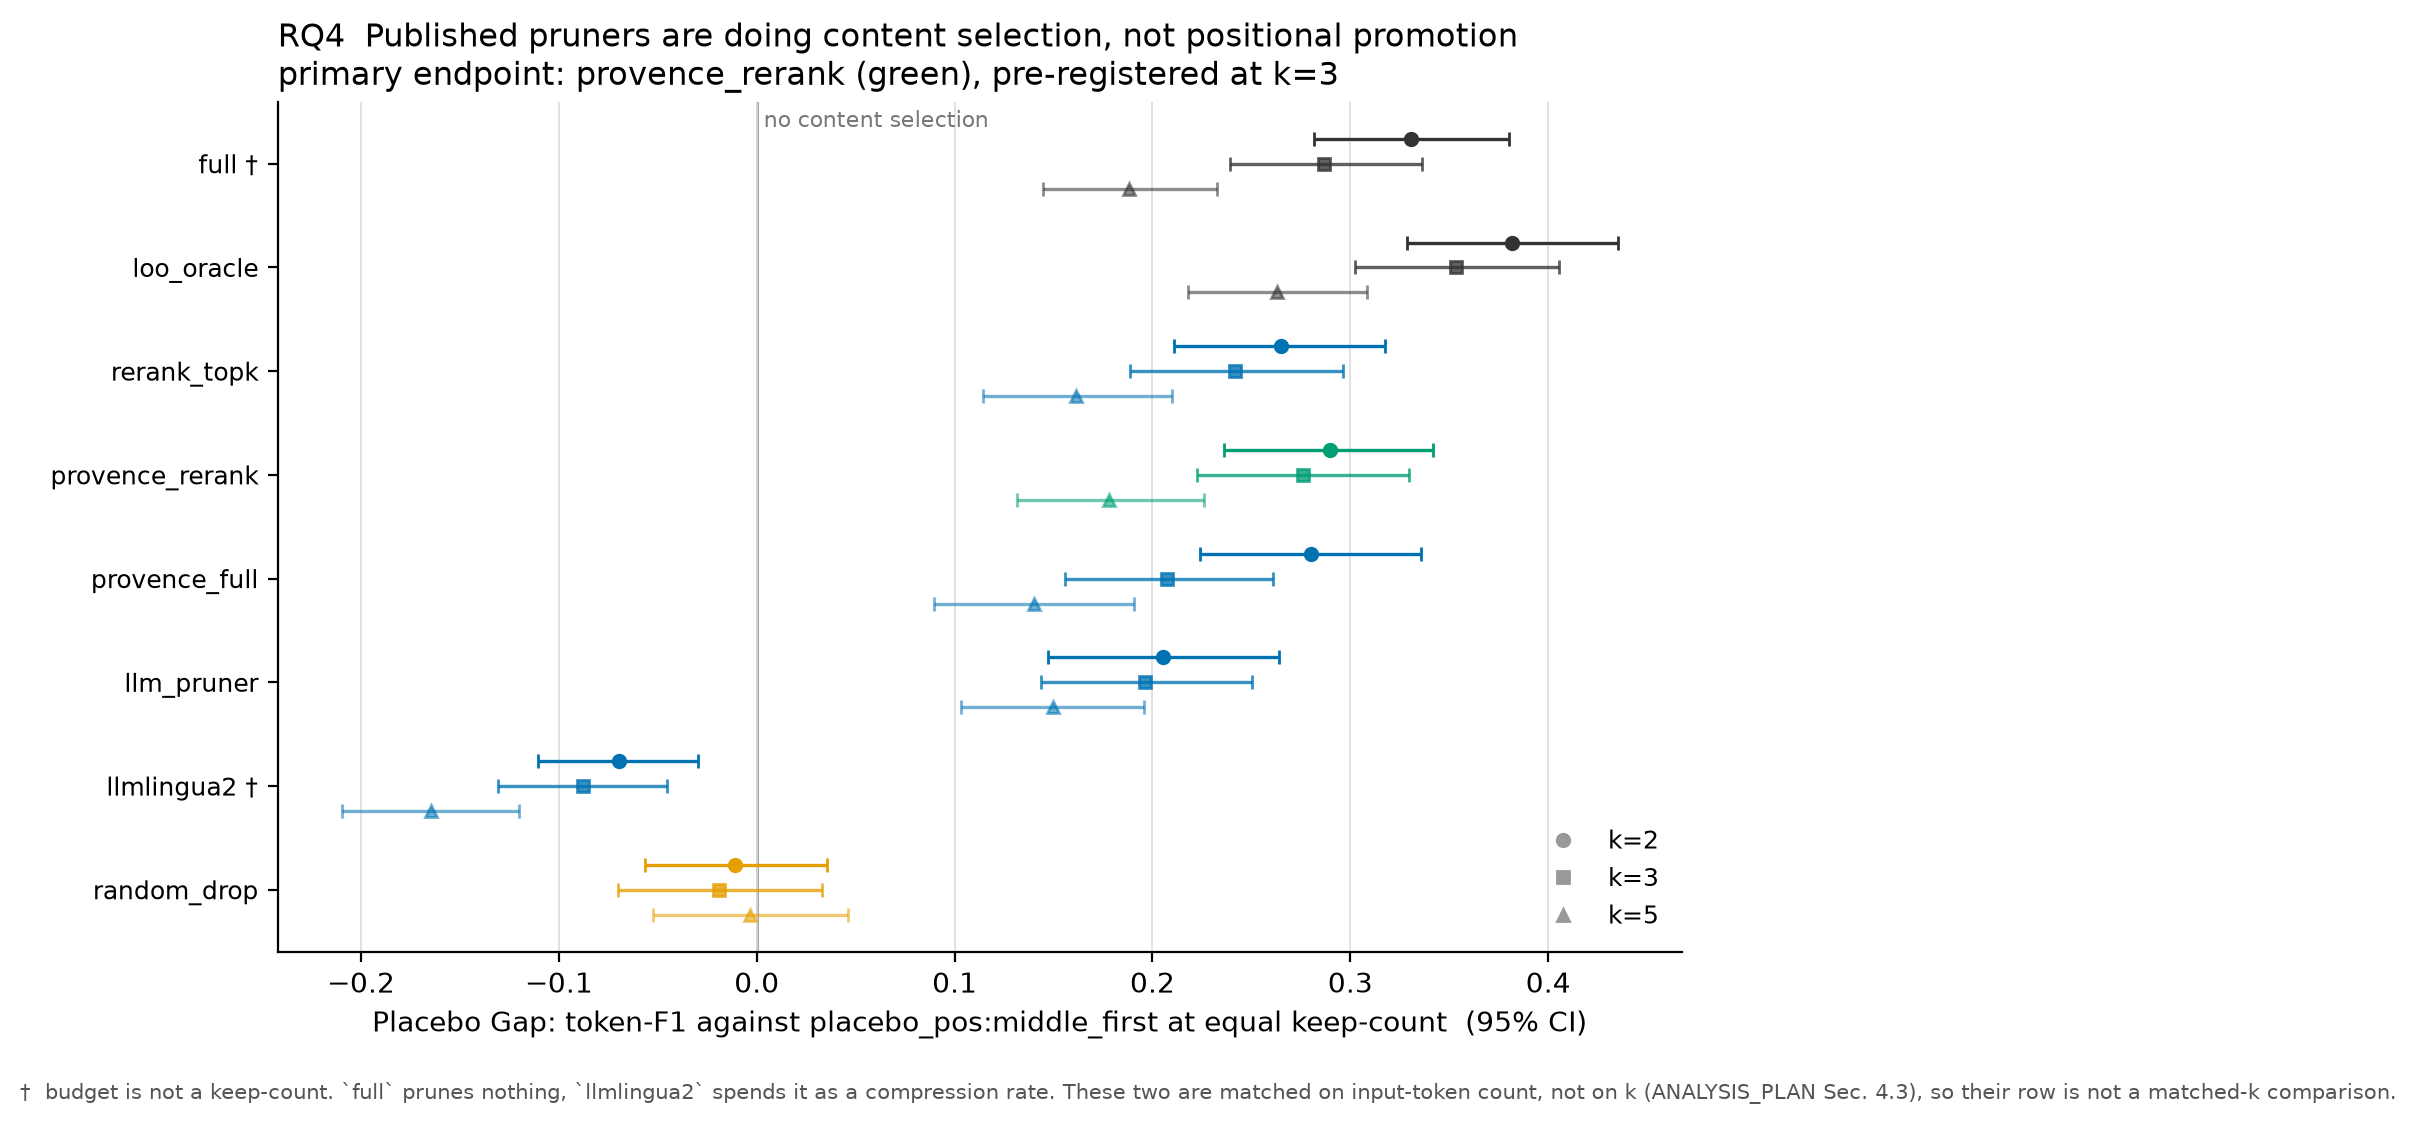
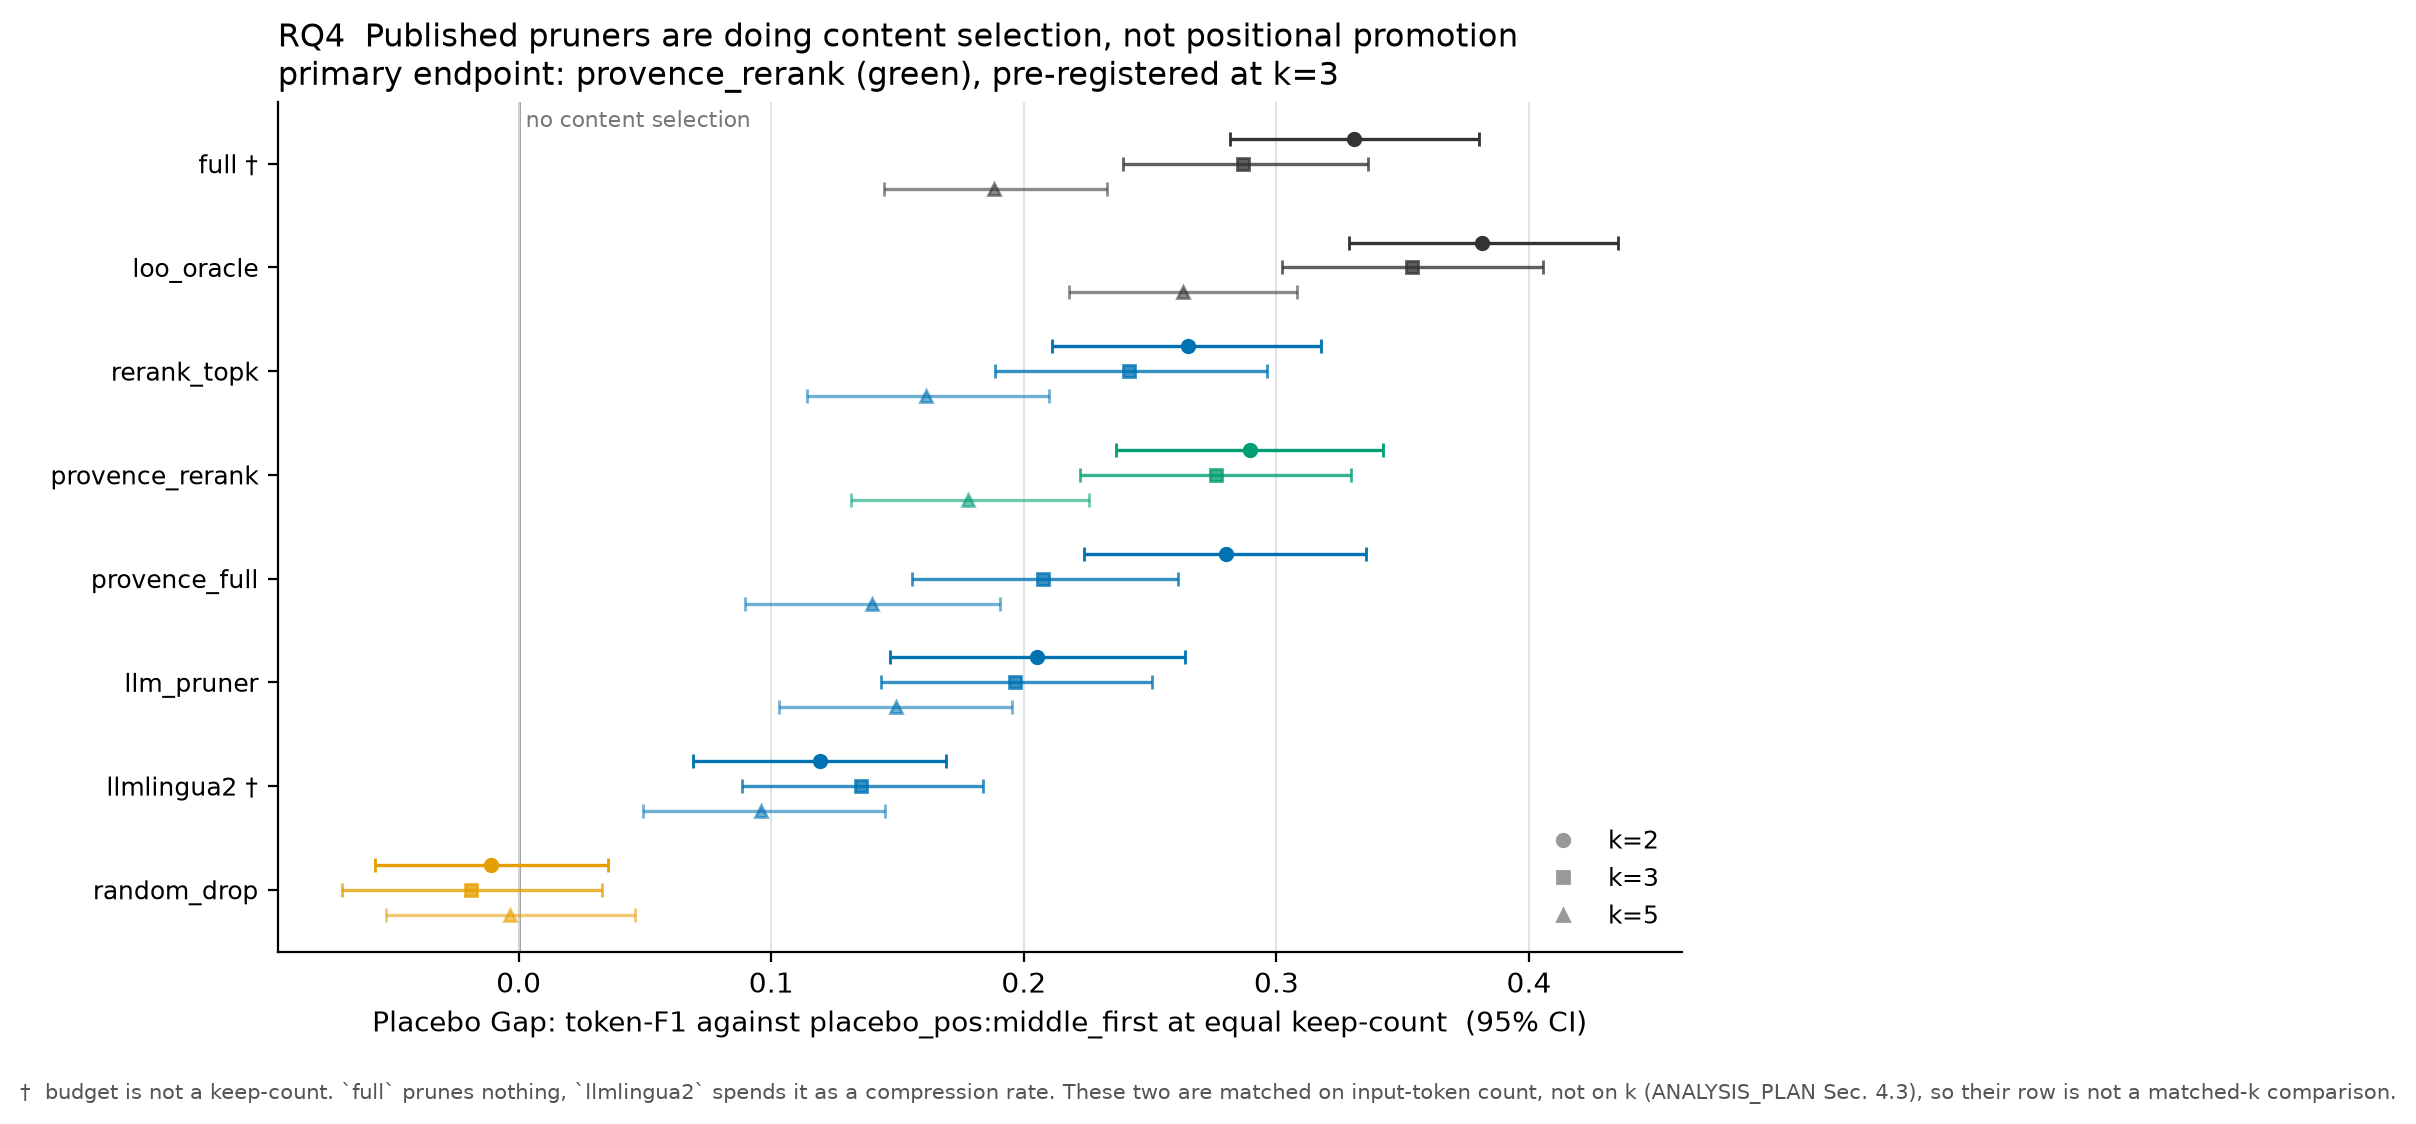
Correct the llmlingua2 results in the write-up and README
Regenerated the arm (4,095 generations) and re-ran the analysis on the
corrected data. At k=3 the arm goes from 0.0983 to 0.3218 mean token-F1,
its Placebo Gap from -0.0879 to +0.1356, its OAE from -2.89 to -0.93,
and its within-question SD from 0.0881 to 0.1666.

Every other arm reproduces to four decimal places. The primary endpoint
is identical: +0.2760 [0.2223, 0.3297], Holm 0.0018. Every Holm value in
the family is unchanged, because the affected p-values sat at the
bootstrap floor of 0.0002 before and after, so the step-down order did
not move. RQ3 is identical too, despite llmlingua2 being one of its six
arms: it was and remains the lowest-ranked of them, so no pairwise
comparison changed sign.

Withdrawn from the write-up: that the arm loses to a positional placebo,
and the interpretation built on it that evidence in shredded form is
worth less than the evidence intact. The Placebo Gap changed sign at all
three budgets, so that claim was not merely unsupported, it was
backwards.

Also withdrawn: "per-chunk compression preserved 100/100 across
orderings" as an empirical result. Identical cache keys returned
identical entries, so the comparison could not have returned anything
else. Per-chunk compression is order-invariant by construction, which is
a design property rather than a measurement. The joint-compression
result, 0 of 100, is unaffected -- no per-chunk cache takes part in it.

RQ1 gains a finding rather than losing one. llmlingua2 is now second
[…]

diff --git a/WRITEUP.md b/WRITEUP.md
@@ -6,6 +6,10 @@
 HotpotQA main run. The second dataset and the hosted cross-generator replication
 are not yet finished, and Section 7 says what remains.
 
+All numbers here are from the corrected run. An earlier version reported the
+`llmlingua2` arm wrongly because of a caching defect; Section 4.7 documents it,
+its effect, and why it survived a full analysis and a draft.
+
 ---
 
 ## Abstract
@@ -33,8 +37,10 @@ Third, and in tension with the second, no practical pruner separates from a plai
 cross-encoder top-k baseline once the gain is measured in units of the baseline's
 own permutation noise. We also show that order dependence reaches inside two of
 the methods themselves: an LLM asked which passages to keep returns selections
-with a mean Jaccard of 0.213 across three presentation orders, and LLMLingua-2
-compresses a concatenated context differently depending on the order it is given.
+with a mean Jaccard of 0.213 across three presentation orders, and LLMLingua-2,
+a deterministic classifier, compresses a concatenated context differently
+depending on the order it is given, preserving 0 of 100 passages identically
+across orderings when applied the way it normally is.
 
 ---
 
@@ -266,10 +272,16 @@ budgets by five permutations, plus the no-context baseline.
 
 Mean within-question standard deviation of token-F1 across permutations, at
 k = 3, is 0.1795 (95% CI [0.1554, 0.2038]) for the full-context arm and between
-0.057 and 0.121 for every other arm. Every interval excludes zero. The full
-context is clearly separated from every pruning arm, which is the expected
+0.057 and 0.167 for every other arm. Every interval excludes zero. The full
+context is clearly separated from every keep-k pruning arm, which is the expected
 direction: pruning leaves fewer passages to reorder, so it reduces the amount of
 order sensitivity available.
+
+`llmlingua2` is the instructive exception at **0.1666 [0.1426, 0.1912]**, second
+only to the full context. It is not a keep-k arm: it retains all ten passages and
+compresses each, so it presents ten permutable slots where a keep-3 arm presents
+three. More positional room, more positional variance. That is the mechanism this
+section describes, showing up in the one arm whose design isolates it.
 
 Within the pruning arms, the standard deviation rises monotonically with the
 budget in every case. The full-context arm is flat across budgets at 0.1795,
@@ -323,7 +335,7 @@ by three budgets, survive Holm correction.
 | `provence_full` | +0.2799 | +0.2075 | +0.1399 |
 | `llm_pruner` | +0.2052 | +0.1964 | +0.1496 |
 | `random_drop` | -0.0111 | -0.0190 | -0.0036 |
-| `llmlingua2` | -0.0698 | -0.0879 | -0.1648 |
+| `llmlingua2` | +0.1192 | +0.1356 | +0.0958 |
 
 Five of these arms are inside the pre-registered confirmatory family
 (`provence_rerank`, `provence_full`, `llmlingua2`, `llm_pruner` and
@@ -342,9 +354,12 @@ from an arm that discards them by position, and it is. Without this row the
 positive results would be much weaker evidence, because a placebo gap that came
 out positive for everything would suggest the comparison itself was biased.
 
-**One method fails the test in the opposite direction.** `llmlingua2` is
-significantly *worse* than the positional placebo at every budget. This is
-discussed in Section 4.5.
+**Every method passes, including the compressor.** `llmlingua2` clears the
+placebo at all three budgets (+0.1192, +0.1356, +0.0958), which is worth stating
+explicitly because an earlier version of this analysis reported the opposite. A
+caching defect was feeding that arm one question's compressed passages for every
+question in the run; it is described in Section 4.7, and the numbers here are
+from the corrected run.
 
 The direct answer to the motivating suspicion is therefore negative. Published
 pruners are not merely exploiting positional promotion. At matched keep-count
@@ -366,9 +381,10 @@ The first three rows are confirmatory and Holm-corrected within the family of
 nine; uncorrected p-values are shown in the table and the corrected values are
 quoted in the text below. `loo_oracle` is outside the family and is reported as a
 ceiling with an interval rather than as a test. `llmlingua2` is omitted from this
-table for readability, since its OAE runs from -5.03 to -2.29 and compresses
-every other row; it is significantly negative at all three budgets, which is
-discussed in Section 4.5.
+table for readability, since its OAE runs from -2.19 to -0.46 and would compress
+every other row; it is significantly negative at all three budgets (p = 0.0002,
+0.0002, 0.0014), so it is the one arm that is clearly *behind* the baseline in
+orderings-worth of noise, by about one ordering's worth at the primary budget.
 
 No practical pruner survives Holm correction against the baseline at any budget.
 The best case is `provence_rerank` at the primary budget, at an uncorrected
@@ -427,25 +443,41 @@ is that it reaches the selection step and that no evaluation controls for it.
 
 **LLMLingua-2's compression is also order-dependent**, when applied in the usual
 way to a concatenated context. Asking whether a given passage's surviving text is
-identical across orderings, joint compression preserved **0 of 100** passages
-while per-passage compression preserved **100 of 100**. This is the more
+identical across orderings, joint compression preserved **0 of 100** passages.
+Not one passage survived joint compression the same way twice. This is the more
 surprising of the two results, since LLMLingua-2 is a deterministic token
 classifier rather than a prompted model, and it is not a corollary of the
-in-context-learning literature. It is also the reason this arm compresses each
+in-context-learning literature.
+
+Per-passage compression is order-invariant by construction rather than by
+measurement, and this should be stated as such: a passage compressed on its own
+cannot depend on the order of passages it never saw. An earlier draft reported
+"100 of 100" as an empirical counterpart to the 0 of 100, which it was not; the
+comparison ran through a cache that returned the same entry, so it could not have
+produced any other answer. It is also the reason this arm compresses each
 passage independently: compressing jointly would give each of the five
 permutations different content, breaking the one invariant the design rests on,
 in the very arm intended to test ordering.
 
-**Why LLMLingua-2 loses to a placebo.** At k = 3 the arm retains both gold
-passages in every case (mean gold retained 2.000, against 0.650 for the placebo)
-and emits a slightly longer context (median 1,643 characters against 1,552), yet
-scores 0.0983 mean token-F1 against the placebo's 0.1862. Evidence in shredded
-form is worth less than half the evidence intact. One caution against
-over-reading the budget trend: because the budget is spent as a compression rate,
-a higher k means less compression, and the arm improves monotonically with the
-budget. The widening gap to the placebo is a floor effect in the comparator,
-which is still acquiring gold passages as k grows, rather than a degradation of
-the method.
+**Where LLMLingua-2 lands.** At k = 3 the arm retains both gold passages in
+every case (mean gold retained 2.000, against 0.650 for the placebo) and scores
+**0.3218** mean token-F1 against the placebo's 0.1862. So token-level compression
+keeps enough of the evidence to beat positional dropping comfortably, while still
+trailing every selection method: it sits below `llm_pruner` at 0.3825 and well
+below `provence_rerank` at 0.4621.
+
+The honest reading is that compression and selection are not equivalent uses of
+the same token budget, but the gap is a matter of degree rather than the arm
+being unusable. Against the baseline in orderings-worth of noise it is the one
+arm clearly behind, at -0.93 [-1.39, -0.53] at k = 3, so about one ordering's
+worth of noise *worse* than simply reranking and truncating.
+
+One caution against over-reading the budget trend: because the budget is spent as
+a compression rate, a higher k means *less* compression, so the arm's absolute
+score improves with the budget while its margin over the placebo narrows
+(+0.1192, +0.1356, +0.0958 at k = 2, 3, 5). The narrowing is a floor effect in
+the comparator, which is still acquiring gold passages as k grows, rather than a
+degradation of the method.
 
 ### 4.6 Arm-level behaviour worth reporting
 
@@ -466,6 +498,43 @@ of cells have ties at the selection boundary, and its selection order-Jaccard is
 0.171. Where passages are indistinguishable the selection is decided by arbitrary
 tie-breaking rather than by position, and those are different claims that should
 not be merged.
+
+### 4.7 A corrected defect, and what it cost
+
+One arm's results in an earlier version of this analysis were wrong, and the
+correction is reported here rather than left in the commit history, because the
+way the error survived is itself informative.
+
+LLMLingua-2 compresses each passage separately, and the implementation memoised
+that work. The cache was keyed on the passage's **index and rate** rather than on
+its **text**. Neither component identifies a passage: the driver is arm-major, so
+one instance serves every question in a run, and the rate is k/n, constant across
+questions. The whole arm therefore had about thirty distinct keys, and every
+question after the first received the first question's compressed passages.
+
+The effect was large. At k = 3 the arm's mean token-F1 was 0.0983 and is 0.3218
+corrected; its Placebo Gap was -0.0879 and is +0.1356; its Order-Adjusted Effect
+was -2.89 and is -0.93. Every other arm reproduced to four decimal places, and
+the primary endpoint is unchanged at +0.2760 [0.2223, 0.3297], Holm p = 0.0018.
+The pre-fix aggregates are kept beside the results for audit.
+
+**Why it hid.** The instrumentation reported `n_gold_kept` = 2.000 for this arm
+throughout, because that quantity is computed from passage metadata rather than
+passage text. The arm therefore looked like it was retaining all the evidence and
+simply answering badly, which is a describable phenomenon rather than an obvious
+fault. The project twice proposed a substantive explanation for it: first that
+the arm scored below the no-context floor, which was correctly retracted as a
+population-comparison error, and then that "evidence in shredded form is worth
+less than the evidence intact", which reached a full draft of this document.
+
+**The lesson worth taking.** An arm that retains all the gold evidence and scores
+below random dropping is not a finding, it is a contradiction, and a contradiction
+should be treated as a defect until it has been ruled out as one. The measurement
+that would have settled it, comparing the compressed text of the same passage
+across two different questions, takes a minute and was never run, because the
+result already had an explanation. No test caught it either: every test exercised
+a single question's passages, and the defect only appears from the second question
+onward.
 
 ---
 
@@ -514,7 +583,8 @@ LLMLingua-2, are not statements about noisy evaluation. They say the method
 itself computes a different function of the same inputs depending on presentation
 order. For LLMLingua-2 in particular, a deterministic classifier that preserves
 no passage identically across orderings is a result that its intended usage
-pattern makes invisible.
+pattern makes invisible: applied as intended, to a whole concatenated context,
+its output is a function of an ordering nobody thinks of as a parameter.
 
 ---
 

diff --git a/README.md b/README.md
@@ -66,9 +66,10 @@ scores.** This is the sharper version of the thesis.
   random guessing). **The selection changed in 98 of 100 questions, and in 23 of
   them the three attempts had no passage in common at all.**
 - LLMLingua-2 compresses a concatenated context differently depending on the
-  order it is given, in **100 out of 100** passages. It is a deterministic
-  classifier, not a prompted model, which makes this the more surprising of the
-  two.
+  order it is given: **0 of 100** passages survive identically across orderings
+  when it is applied the normal way, to the whole context at once. It is a
+  deterministic classifier, not a prompted model, which makes this the more
+  surprising of the two.
 
 **Memorization is not the explanation.** Only 10% of questions can be answered
 with no passages at all, and the analysis is restricted to the questions the
@@ -136,7 +137,7 @@ numbers are meaningless by construction), `--n 20` shrinks the question set,
 | 2WikiMultihopQA, second dataset | to come |
 | hosted cross-generator replication at 27B | partly done, rate-limited |
 
-**222 tests** pass (`python -m pytest -q -m "not network"`, about 10s). Three
+**231 tests** pass (`python -m pytest -q -m "not network"`, about 10s). Three
 more are marked `network` and download the dataset on first run.
 
 ## Main limitations
